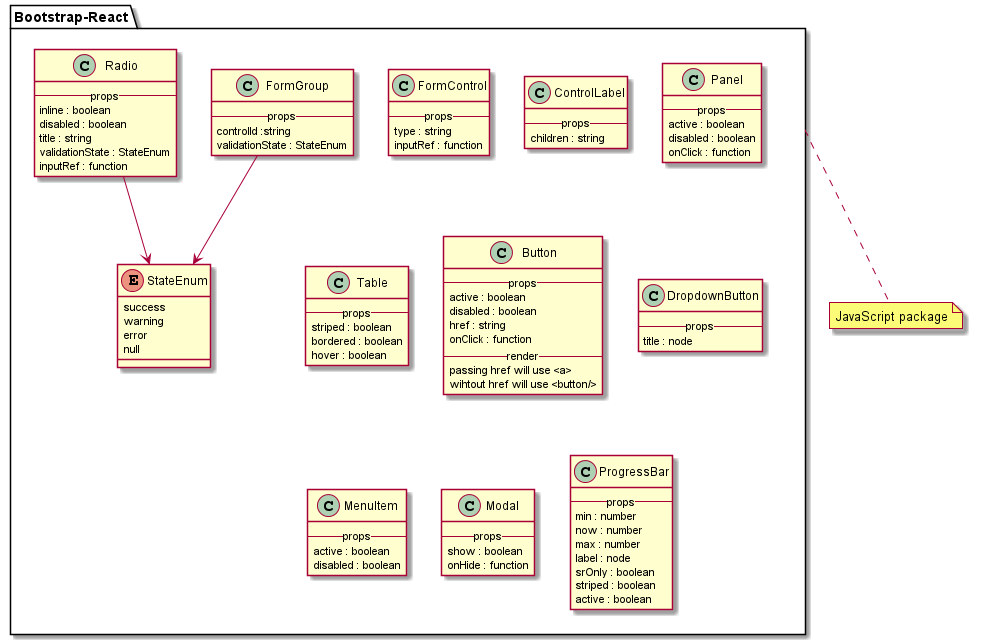
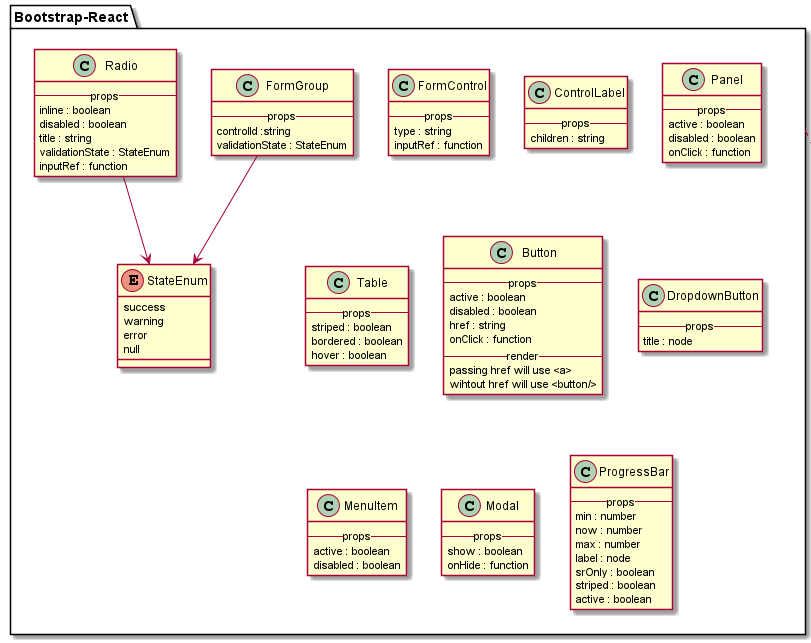
Alcune modiche per leggibilità :memo:

diff --git a/Esterni/ManualeSviluppatore/react/foundation.tex b/Esterni/ManualeSviluppatore/react/foundation.tex
@@ -1,22 +1,21 @@
 \section{Foundation Components}
 
-	\subsection{Bootstrap Components} For simplicity in front-end we decided to use the React-Bootstrap framework, which allowed us to define UI style very easily. React-Bootstrap is a complete re-implementation of the Bootstrap components using React. It has no dependency on either \textit{bootstrap.js}  or jQuery and also it doesn't depend on a precise version of Bootstrap, so there is no pre-included css file. However, some stylesheet is required to use these components, in our case we inclueded Material-UI css file in \textit{public/index.html}. All React-Bootstrap components are tested and perfectly work with any kind of modern desktop/mobile browser. We used many React-Bootstrap components for the creation of Marvin. The components are mainly used to create our custom and dynamic components 
-	of which we will discuss in the next section. \\ The following UML diagram shows which components and which properties of specific component we used to create our custom components. 
-
+	\subsection{Bootstrap Components} For simplicity in front-end we decided to use the React-Bootstrap framework, which allowed us to define UI style very easily. React-Bootstrap is a complete re-implementation of the Bootstrap components using React. It doesn't depend on a precise version of Bootstrap, so there is no pre-included CSS file. However, some stylesheet is required to use these components, in our case we inclueded Material-UI CSS file in \textit{public/index.html}. \\ All React-Bootstrap components are tested and perfectly work with any kind of modern desktop/mobile browser. We used many React-Bootstrap components for the creation of Marvin. The components are mainly used to create our custom and dynamic components 
+	of which we will discuss in the next section. \\ \\ The following UML diagram shows which components and which properties of specific component we used to create our custom components. 
 		\subsubsection{UML}
 		\begin{figure}[h]
 			\centering
-			\includegraphics[width=1\linewidth]{"diagrammi/react/bootstrap"}
+			\includegraphics[width=14cm,height=9cm]{"diagrammi/react/bootstrap"}
 			\caption{React-Bootstrap components for Marvin}
 			\label{fig:React-Bootstrap components for Marvin}
 		\end{figure}
 	\newpage
 	\subsection{Custom Components} Now let's talk about custom components, most of these components are made from React-Bootstrap components as said in the previous section. These components are mainly used to create different pages, which in their turn create a template for different users (we will discuss about this in detail in the next section). \\The following UML diagram shows how the custom components are made and from which React-Bootstrap components.  
-	\\ \\
+	\\ 
 		\subsubsection{UML}
 			\begin{figure}[h]
 			\centering
-			\includegraphics[width=1\linewidth]{"diagrammi/react/customComponents"}
+			\includegraphics[width=15.5cm,height=12cm]{"diagrammi/react/customComponents"}
 			\caption{Custom components for Marvin}
 			\label{fig:Custom components for Marvin}
 		\end{figure}
